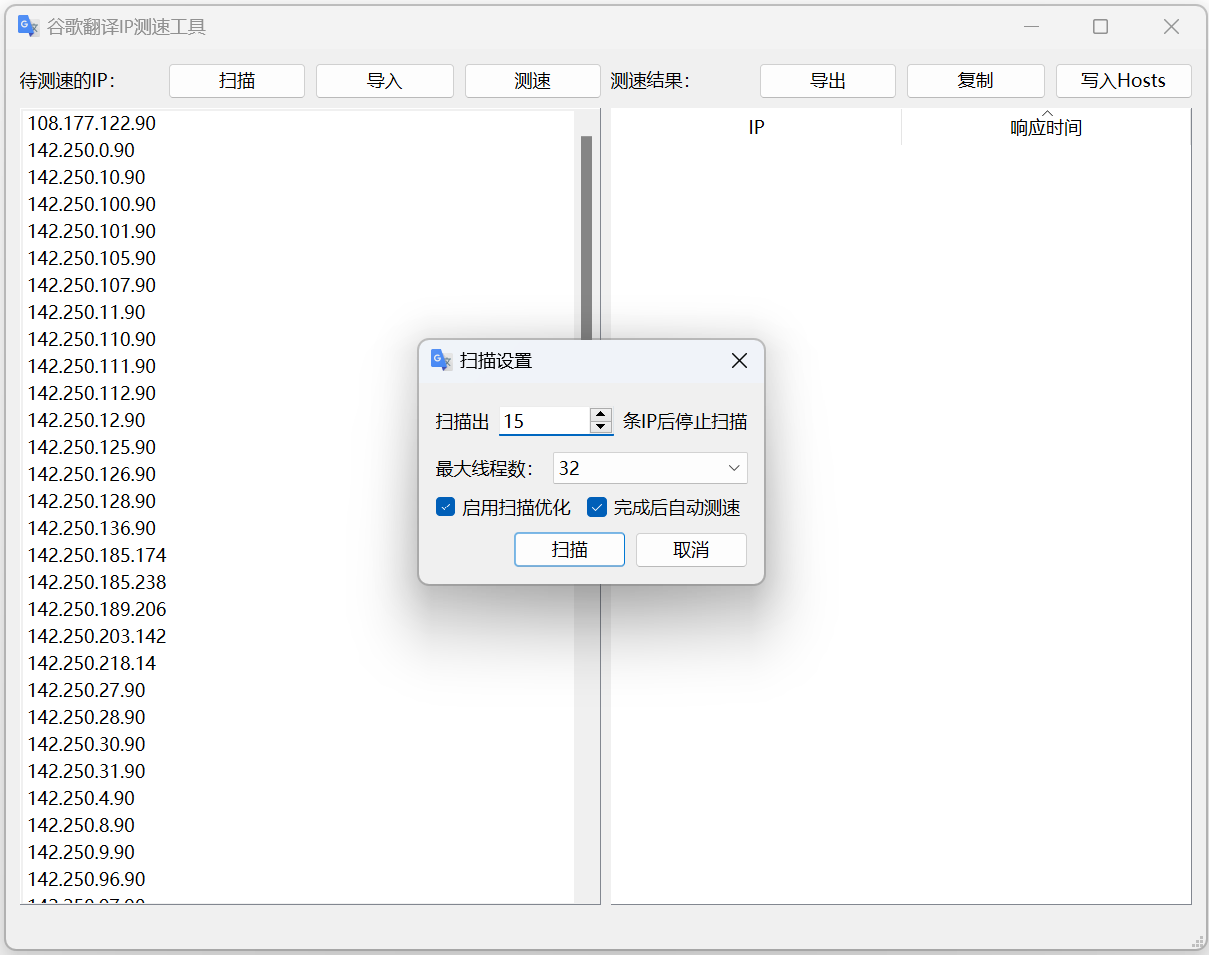
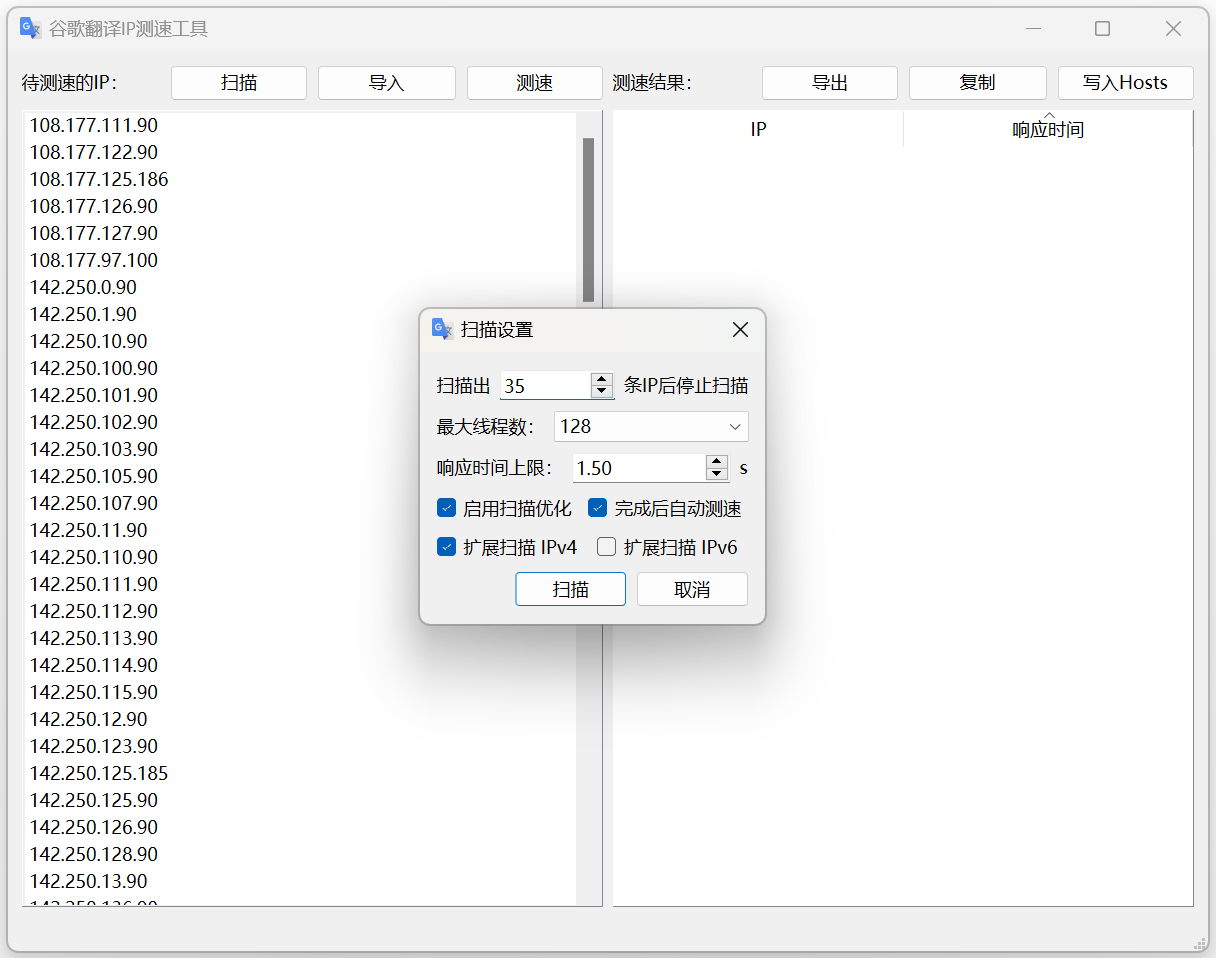
Update screenshots

diff --git a/README.md b/README.md
@@ -17,8 +17,6 @@
 
 ## 屏幕截图
 
-请注意：屏幕截图均来自初始版本，新版 UI 稍有改动。
-
 ![](screenshots/1.gif)
 
 ![](screenshots/2.png)
